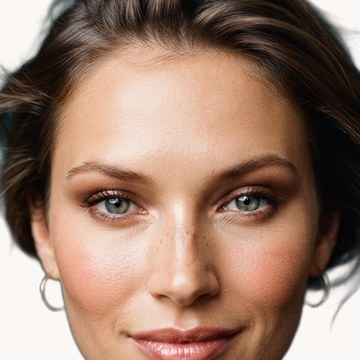
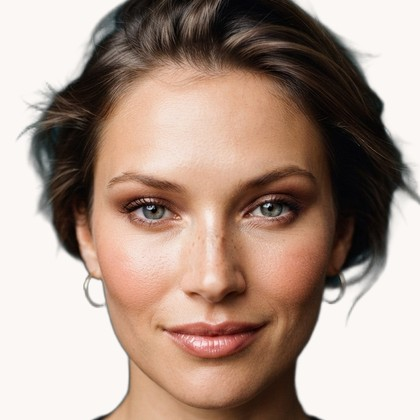
Move the medallion inside the frame and turn the arrow toward her
The face was cropped too close to read as a portrait — chin and hair cut
off, and inside a circle it looked like a thumbnail of a thumbnail. Wider
now, with the shoulders in, at 420px instead of 360.

The medallion sat over the left edge and the arrow rose almost straight up,
pointing at the wall beside her. Both moved up together and inward, and the
arrow is turned twenty-four degrees so it travels toward the woman. Its
origin is the bottom left corner, so it still leaves the medallion — only
the tip moves.

diff --git a/assets/gowns.css b/assets/gowns.css
@@ -53,7 +53,7 @@ header{display:flex;justify-content:space-between;align-items:center;max-width:1
    madalyonun altına düşüp beyaz bir halka gibi durdu, çünkü yüzdelik `bottom`
    değeri kutunun kendi yüksekliğine göre hesaplanıyordu. Sıralı düzende yer
    tahmine kalmıyor. */
-.tf-tag{position:absolute;left:-3%;top:34%;z-index:3;pointer-events:none;
+.tf-tag{position:absolute;left:5%;top:calc(34% - 40px);z-index:3;pointer-events:none;
   display:flex;align-items:flex-start;gap:clamp(4px,.8vw,9px);
   opacity:0;transform:translate(-10px,6px) scale(.94)}
 .tf-tag figure{margin:0;width:clamp(62px,7vw,92px);flex:0 0 auto;
@@ -64,8 +64,12 @@ header{display:flex;justify-content:space-between;align-items:center;max-width:1
    `.tf-arrow` sınıfı bunu geri alamıyordu çünkü sınıf+eleman seçicisi daha
    güçlü. Kapsamı daraltmak, özgüllük yarışını ortadan kaldırıyor. */
 .tf-tag figure img{position:static;width:100%;aspect-ratio:1;object-fit:cover;display:block}
-.tf-arrow{width:clamp(22px,2.6vw,34px);height:auto;margin-top:-6px;
+/* Ok sağa doğru yatırıldı: çizim dikeye yakın çıkıyor ve madalyonun hemen
+   üstünü işaret ediyordu, oysa kadın sağda. Dönme ekseni sol alt köşe, yani
+   ok madalyondan çıkmaya devam ediyor, yalnızca ucu sağa gidiyor. */
+.tf-arrow{width:clamp(22px,2.6vw,34px);height:auto;margin-top:-46px;
   border:0;border-radius:0;box-shadow:none;
+  transform:rotate(24deg);transform-origin:bottom left;
   filter:drop-shadow(0 2px 6px rgba(20,16,14,.55))}
 
 .tf-cap{margin:14px 0 0;font-size:11.5px;letter-spacing:.17em;text-transform:uppercase;

diff --git a/tools/build_gowns.py b/tools/build_gowns.py
@@ -450,7 +450,7 @@ header{display:flex;justify-content:space-between;align-items:center;max-width:1
    madalyonun altına düşüp beyaz bir halka gibi durdu, çünkü yüzdelik `bottom`
    değeri kutunun kendi yüksekliğine göre hesaplanıyordu. Sıralı düzende yer
    tahmine kalmıyor. */
-.tf-tag{position:absolute;left:-3%;top:34%;z-index:3;pointer-events:none;
+.tf-tag{position:absolute;left:5%;top:calc(34% - 40px);z-index:3;pointer-events:none;
   display:flex;align-items:flex-start;gap:clamp(4px,.8vw,9px);
   opacity:0;transform:translate(-10px,6px) scale(.94)}
 .tf-tag figure{margin:0;width:clamp(62px,7vw,92px);flex:0 0 auto;
@@ -461,8 +461,12 @@ header{display:flex;justify-content:space-between;align-items:center;max-width:1
    `.tf-arrow` sınıfı bunu geri alamıyordu çünkü sınıf+eleman seçicisi daha
    güçlü. Kapsamı daraltmak, özgüllük yarışını ortadan kaldırıyor. */
 .tf-tag figure img{position:static;width:100%;aspect-ratio:1;object-fit:cover;display:block}
-.tf-arrow{width:clamp(22px,2.6vw,34px);height:auto;margin-top:-6px;
+/* Ok sağa doğru yatırıldı: çizim dikeye yakın çıkıyor ve madalyonun hemen
+   üstünü işaret ediyordu, oysa kadın sağda. Dönme ekseni sol alt köşe, yani
+   ok madalyondan çıkmaya devam ediyor, yalnızca ucu sağa gidiyor. */
+.tf-arrow{width:clamp(22px,2.6vw,34px);height:auto;margin-top:-46px;
   border:0;border-radius:0;box-shadow:none;
+  transform:rotate(24deg);transform-origin:bottom left;
   filter:drop-shadow(0 2px 6px rgba(20,16,14,.55))}
 
 .tf-cap{margin:14px 0 0;font-size:11.5px;letter-spacing:.17em;text-transform:uppercase;
